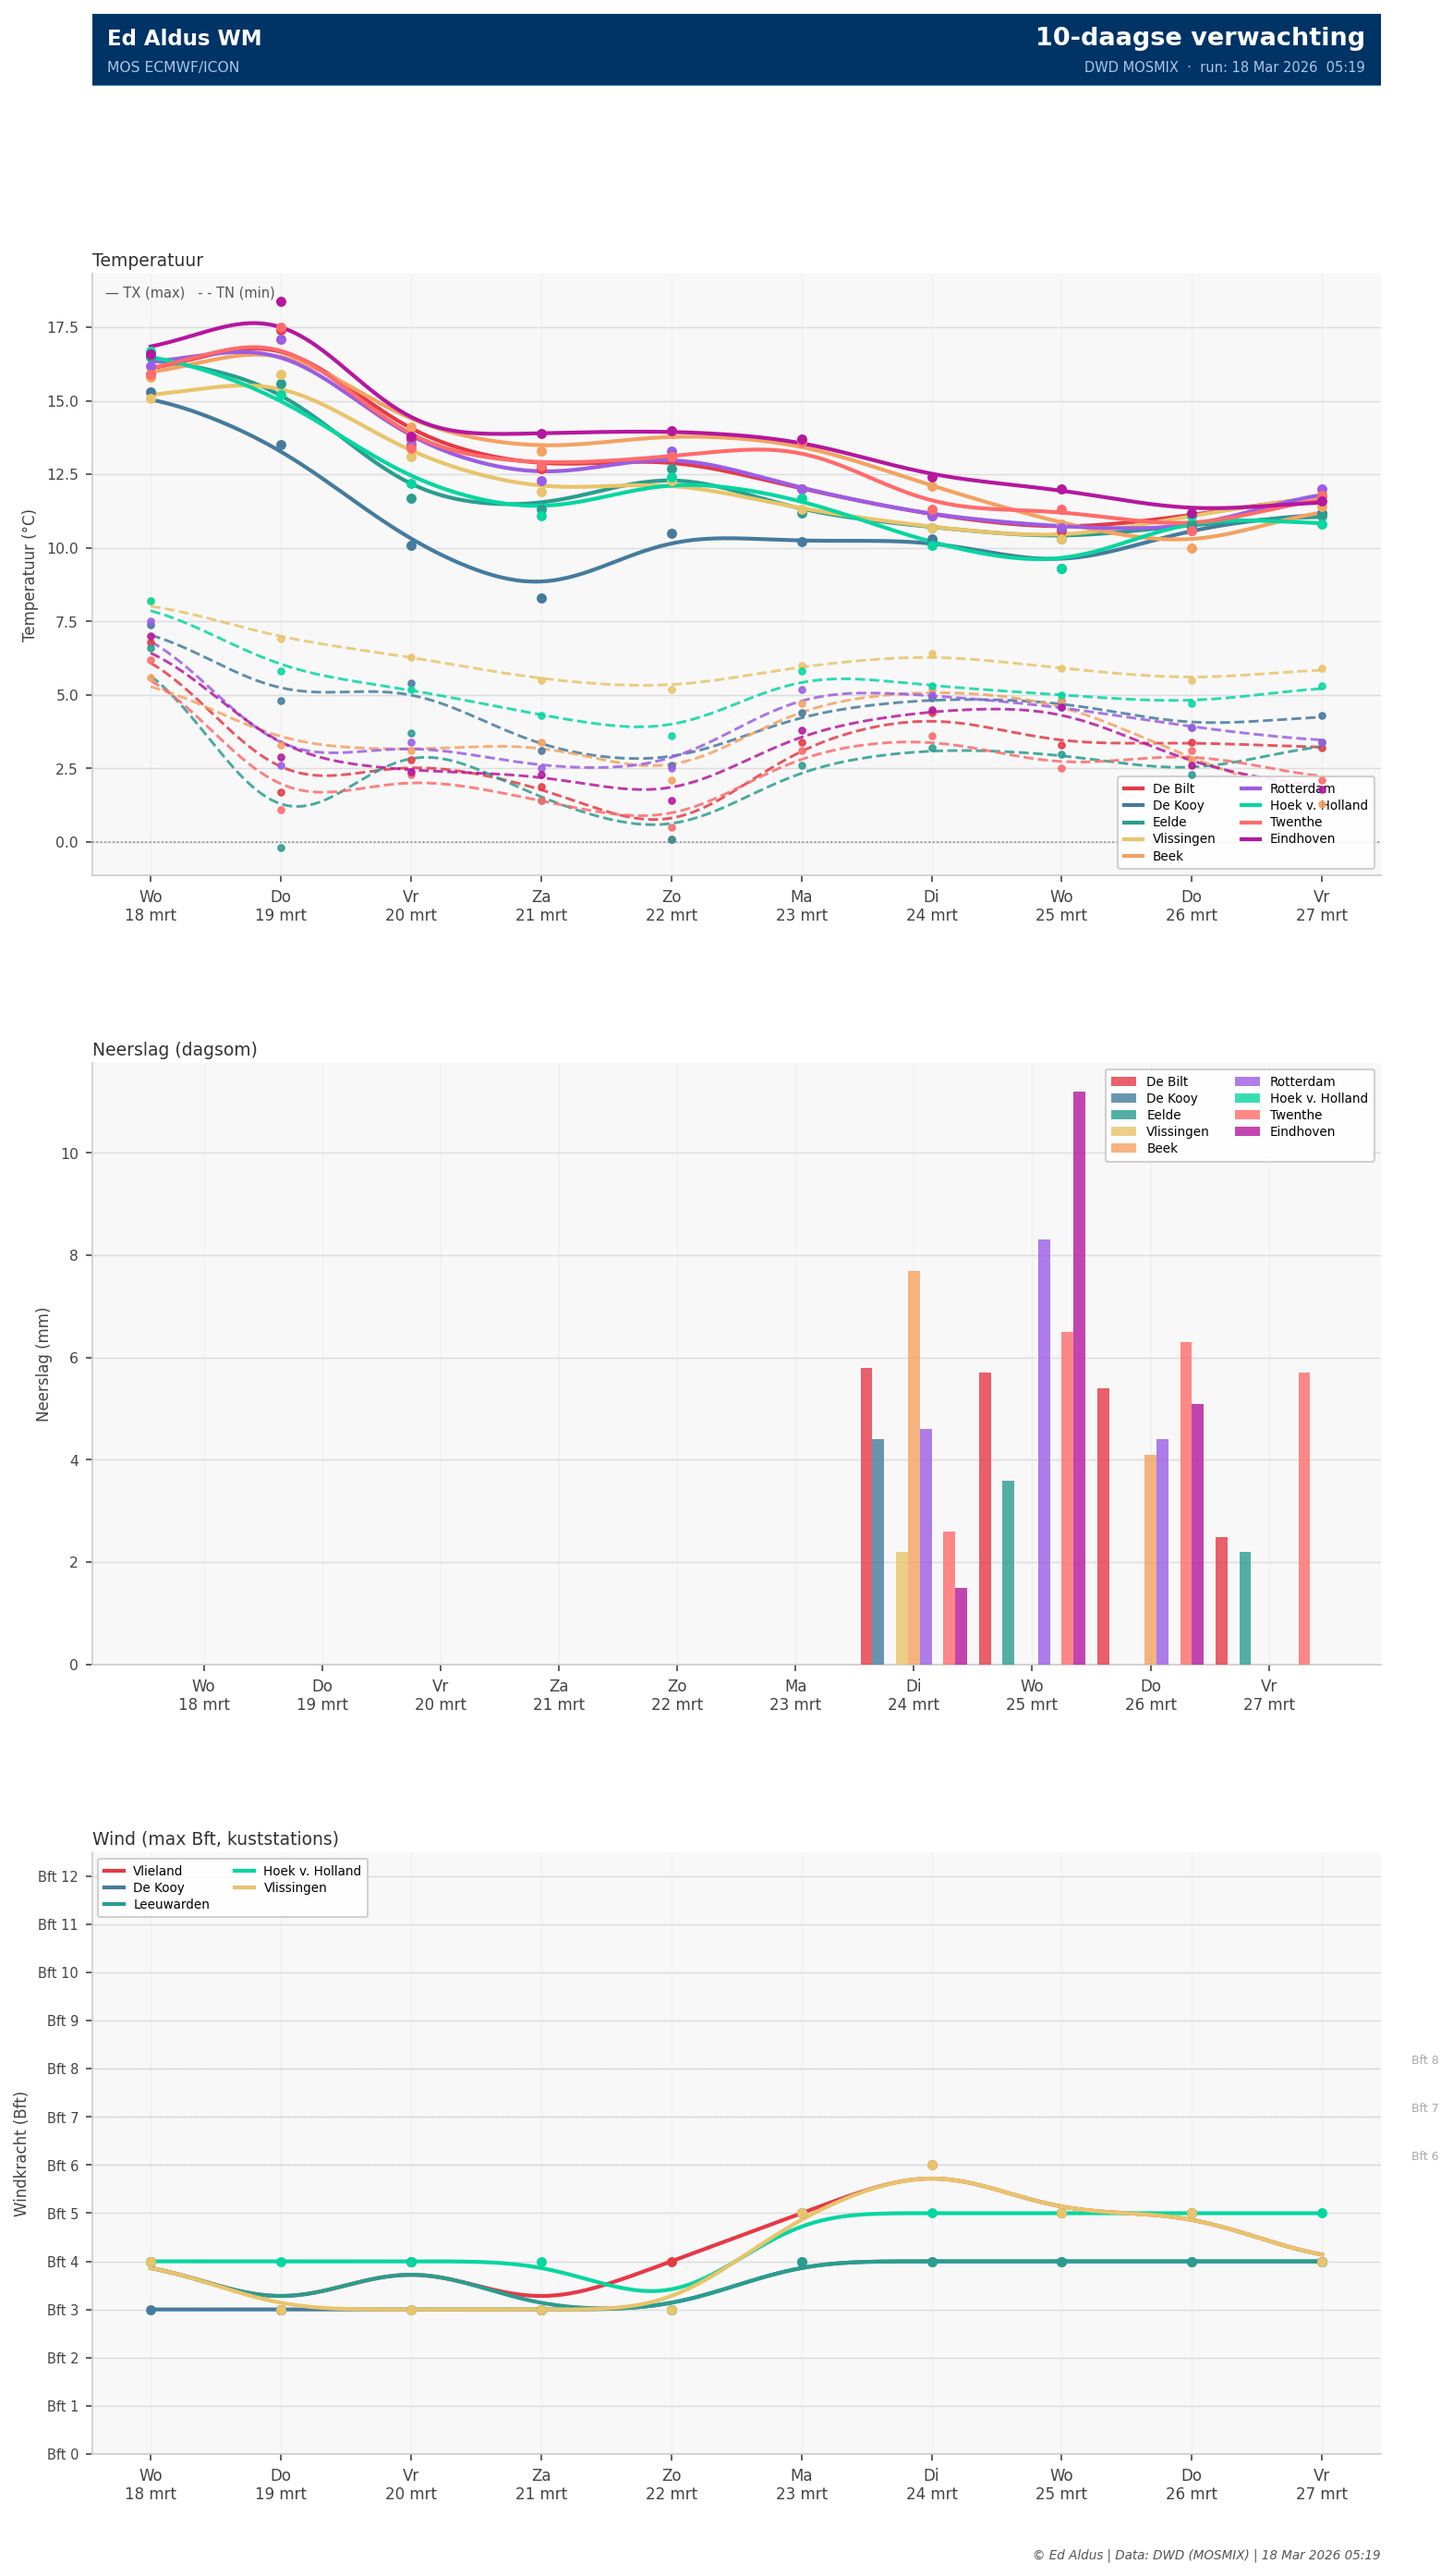
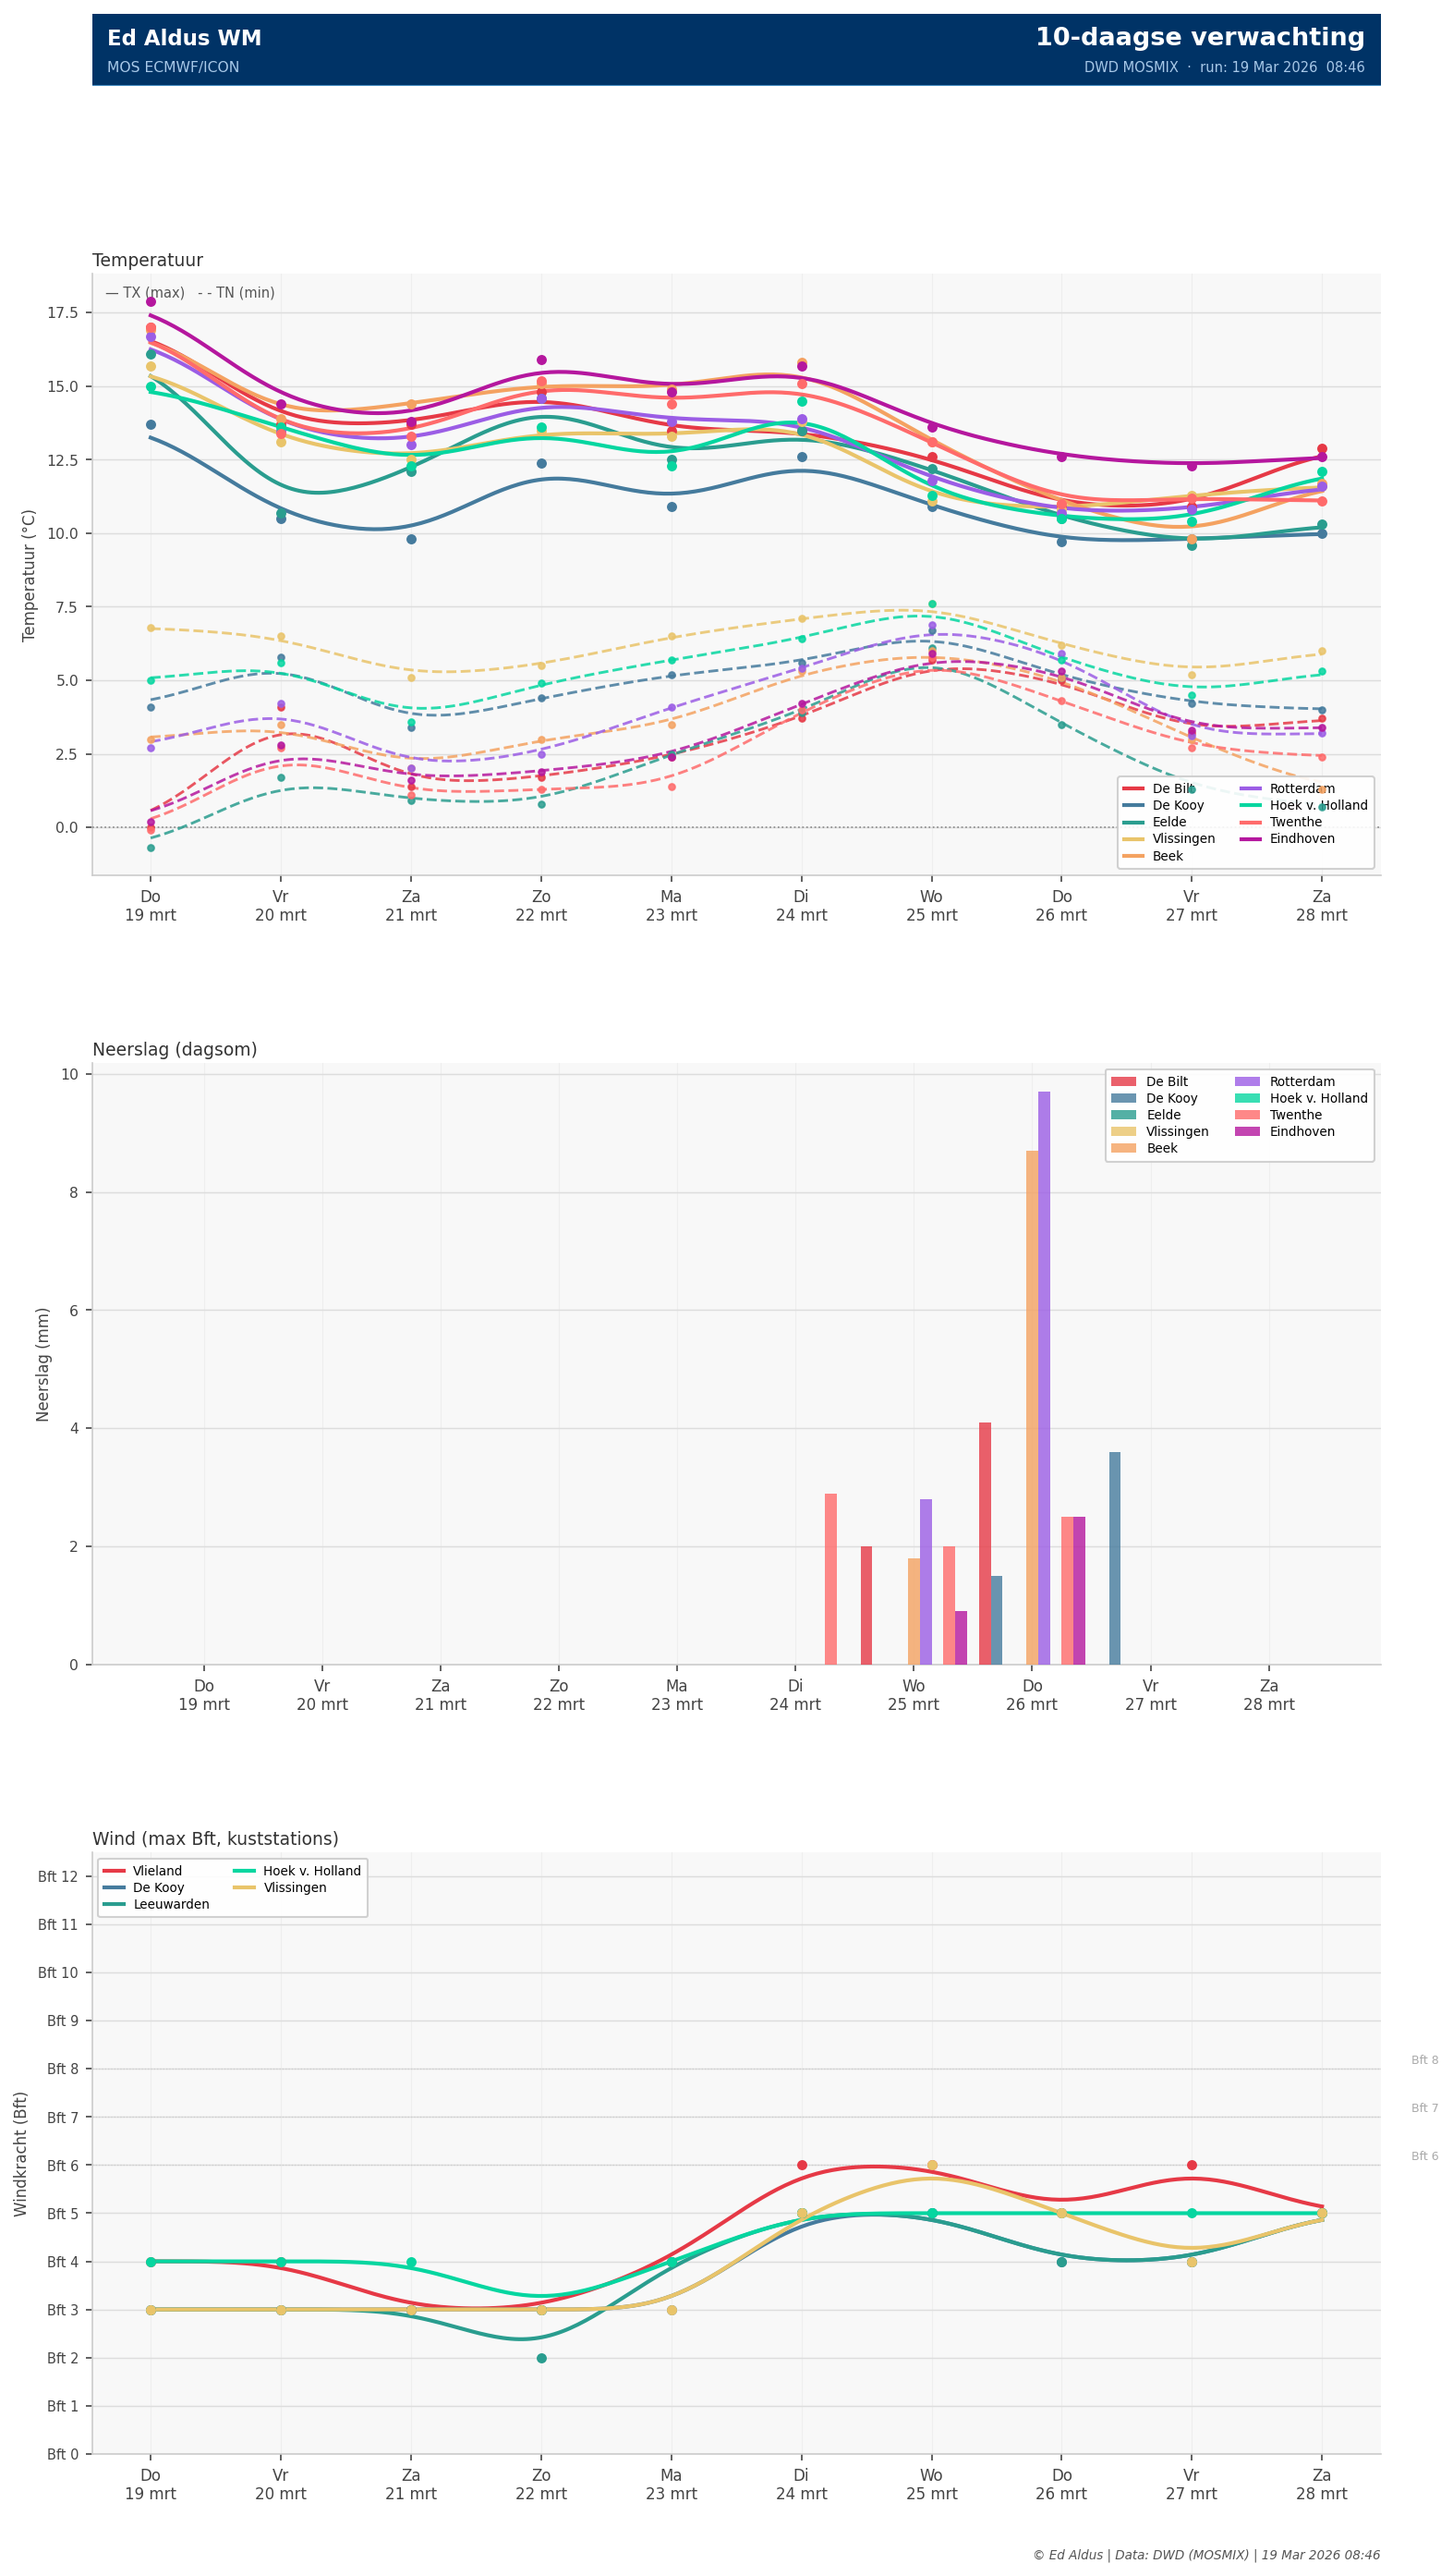
Fix trendgrafiek: begint nu altijd bij vandaag

diff --git a/maak_grafiek.py b/maak_grafiek.py
@@ -142,8 +142,11 @@ for code, naam in stations_temp:
         if i < len(ttt_raw) and ttt_raw[i] is not None: daily[d]["ttt"].append(ttt_raw[i] - 273.15)
         if i < len(rr_raw)  and rr_raw[i]  is not None and rr_raw[i] >= 0: daily[d]["rr"].append(rr_raw[i])
 
+    vandaag_lokaal = datetime.now(timezone.utc).astimezone(LOCAL_TZ).date()
     td = {}; rd = {}; wd = {}
-    for d in sorted(daily.keys())[:11]:
+    for d in sorted(daily.keys()):
+        if d < vandaag_lokaal: continue
+        if len(td) >= 10: break
         tx_v = daily[d]["tx"]; tn_v = daily[d]["tn"]; ttt_v = daily[d]["ttt"]
         tx = max(tx_v) if tx_v else (max(ttt_v) if ttt_v else None)
         tn = min(tn_v) if tn_v else (min(ttt_v) if ttt_v else None)
@@ -171,7 +174,10 @@ for code, naam in stations_wind:
         if i < len(ff_raw) and ff_raw[i] is not None: daily[d].append(ff_raw[i])
 
     wd = {}
-    for d in sorted(daily.keys())[:11]:
+    vandaag_lokaal = datetime.now(timezone.utc).astimezone(LOCAL_TZ).date()
+    for d in sorted(daily.keys()):
+        if d < vandaag_lokaal: continue
+        if len(wd) >= 10: break
         ff_max = max(daily[d]) if daily[d] else None
         if ff_max is not None: wd[d] = ms_naar_bft(ff_max)
     wind_data[naam] = wd
